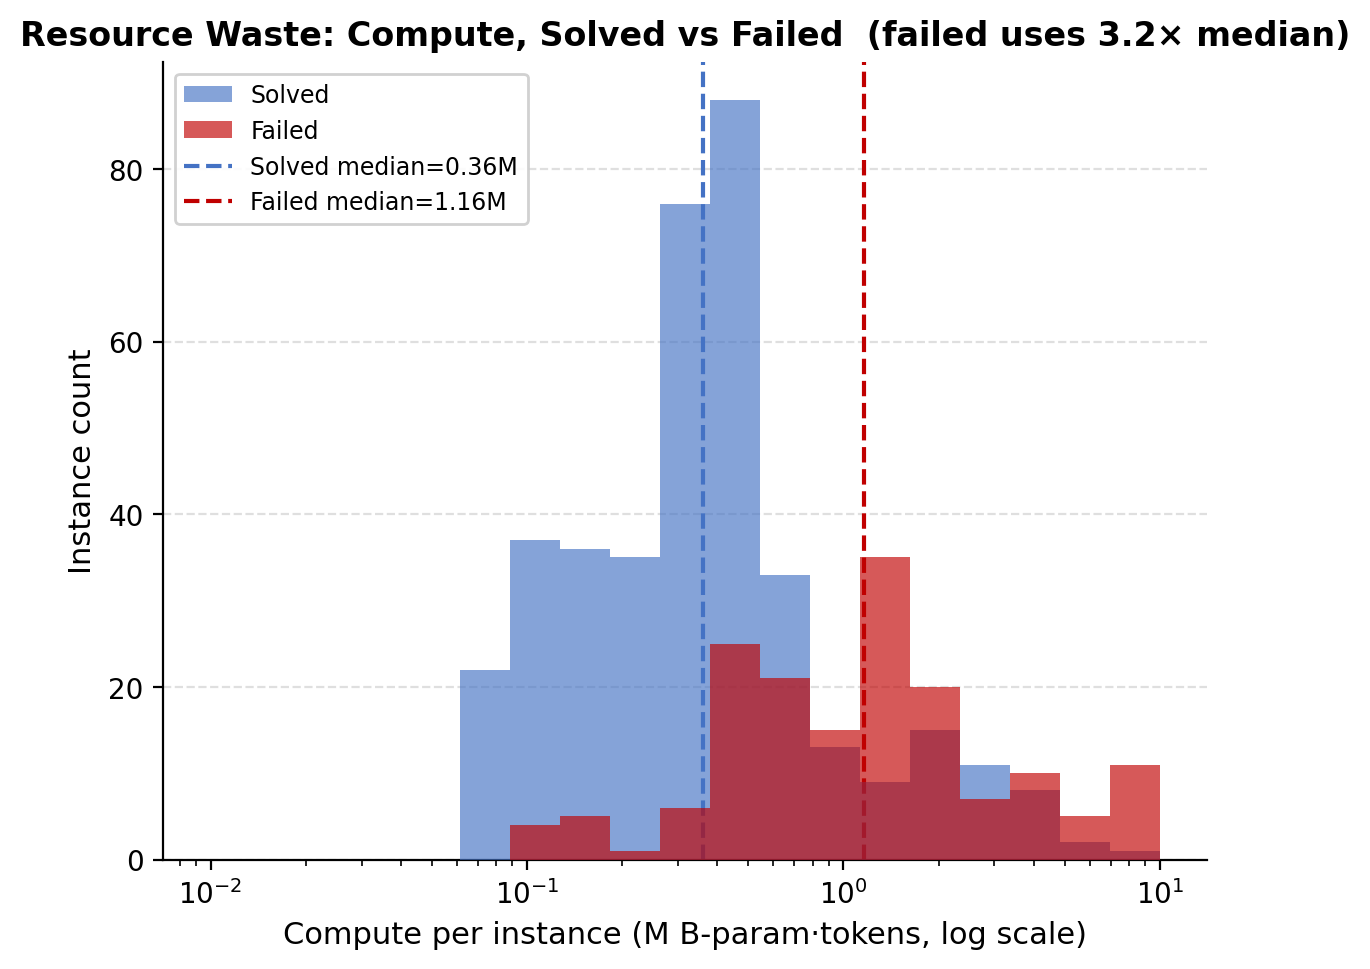
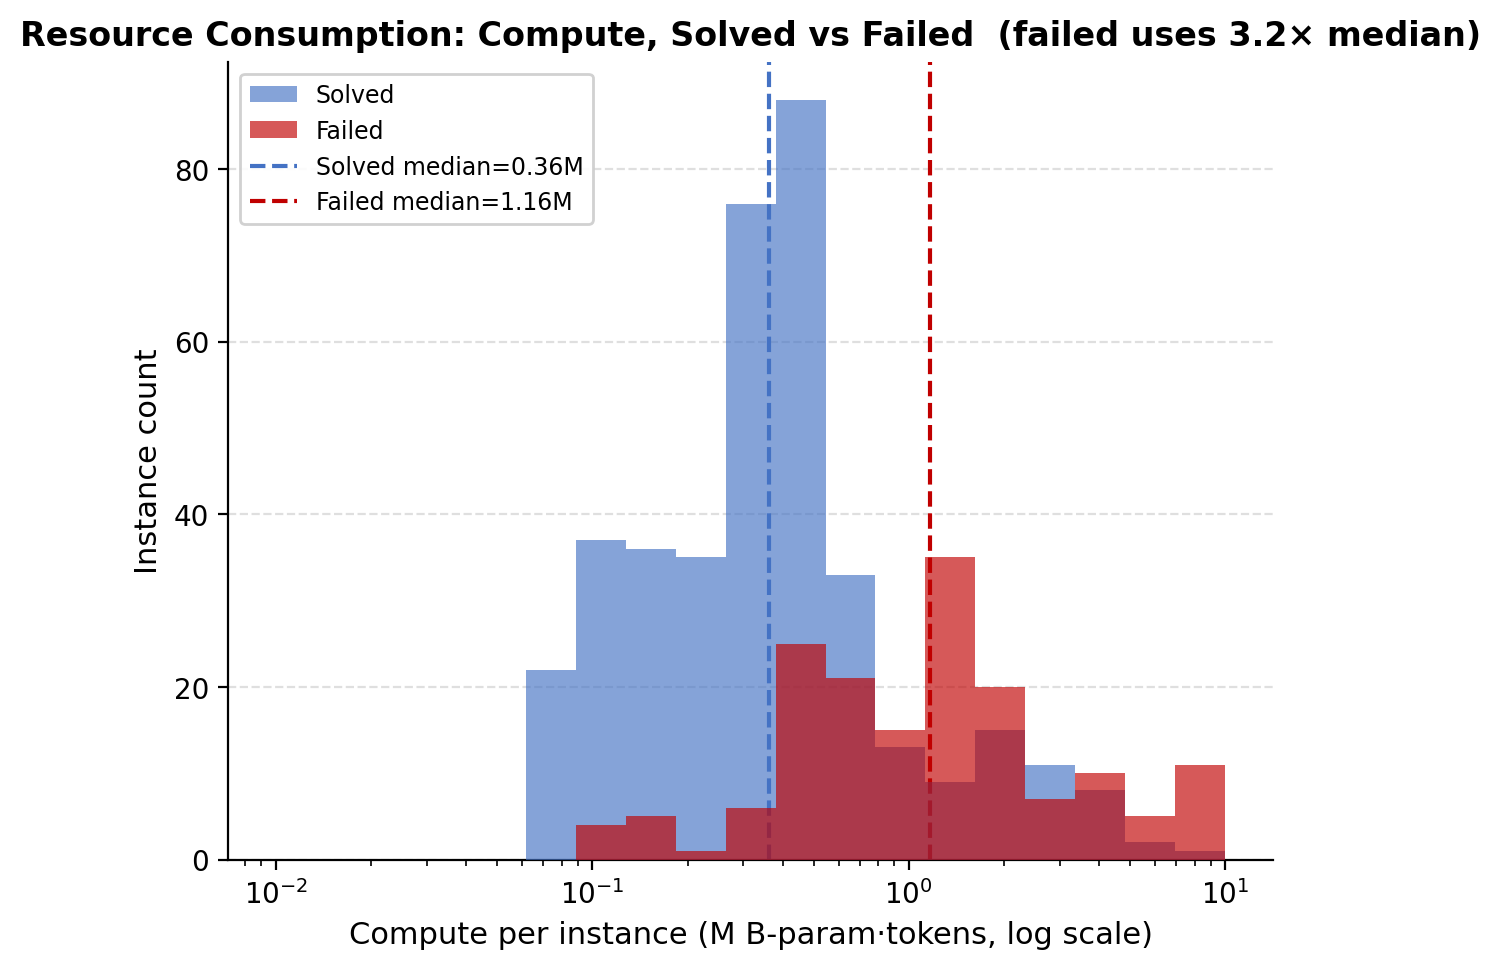
Updates to plotting function for collection of fig_f resource consumption

diff --git a/SWE-agent/scripts/combined/plot_results.py b/SWE-agent/scripts/combined/plot_results.py
@@ -640,7 +640,8 @@ def fig_instance_overlap(data_dir: pathlib.Path, out_dir: pathlib.Path, fmt: str
         return (only_a, only_b, ab_only, only_c, ac_only, bc_only, abc)
 
     try:
-        from matplotlib_venn import venn3_unweighted
+        from matplotlib_venn import venn3
+        from matplotlib_venn.layout.venn3 import DefaultLayoutAlgorithm
         has_venn = True
     except ImportError:
         has_venn = False
@@ -653,17 +654,22 @@ def fig_instance_overlap(data_dir: pathlib.Path, out_dir: pathlib.Path, fmt: str
     failed_sub = _venn_subsets("A", "B", "C", pos="0")
     n_total    = len(rows_f)
 
+    # Equal-circle layout (replaces deprecated venn3_unweighted)
+    _equal_layout = DefaultLayoutAlgorithm(fixed_subset_sizes=(1, 1, 1, 1, 1, 1, 1))
+
     fig, (ax_s, ax_f) = plt.subplots(1, 2, figsize=(12, 5.5))
 
-    venn3_unweighted(subsets=solved_sub,
+    venn3(subsets=solved_sub,
           set_labels=("A\n9b MCTS", "B\nMulti-role\nlinear", "C\nMixed MCTS"),
-          set_colors=("#5b9bd5", "#9b9b9b", "#c00000"), alpha=0.55, ax=ax_s)
+          set_colors=("#5b9bd5", "#9b9b9b", "#c00000"), alpha=0.55, ax=ax_s,
+          layout_algorithm=_equal_layout)
     ax_s.set_title(f"Instances Solved (c2+c3, n={n_total})",
                    fontsize=10, fontweight="bold")
 
-    venn3_unweighted(subsets=failed_sub,
+    venn3(subsets=failed_sub,
           set_labels=("A\n9b MCTS", "B\nMulti-role\nlinear", "C\nMixed MCTS"),
-          set_colors=("#5b9bd5", "#9b9b9b", "#c00000"), alpha=0.55, ax=ax_f)
+          set_colors=("#5b9bd5", "#9b9b9b", "#c00000"), alpha=0.55, ax=ax_f,
+          layout_algorithm=_equal_layout)
     ax_f.set_title(f"Instances Failed (c2+c3, n={n_total})",
                    fontsize=10, fontweight="bold")
 
@@ -786,9 +792,9 @@ def fig_resource_waste(data_dir: pathlib.Path, out_dir: pathlib.Path, fmt: str) 
     fig1, ax1 = plt.subplots(figsize=(7, 5))
     _plot_steps_hist(ax1, solved_steps, failed_steps,
                      bins=step_bins,
-                     title="Resource Waste: Model Calls, Solved vs Failed\n(all variants, aggregated)")
+                     title="Resource Consumption: Model Calls, Solved vs Failed\n(all variants, aggregated)")
     fig1.tight_layout()
-    out1 = out_dir / f"fig_f1_resource_waste_steps.{fmt}"
+    out1 = out_dir / f"fig_f1_resource_consumption_steps.{fmt}"
     fig1.savefig(out1, dpi=200, bbox_inches="tight")
     plt.close(fig1)
     print(f"Saved: {out1}")
@@ -811,7 +817,7 @@ def fig_resource_waste(data_dir: pathlib.Path, out_dir: pathlib.Path, fmt: str) 
         ax2.set_xscale("log")
         ax2.set_xlabel("Compute per instance (M B-param·tokens, log scale)", fontsize=11)
         ax2.set_ylabel("Instance count", fontsize=11)
-        ax2.set_title(f"Resource Waste: Compute, Solved vs Failed  (failed uses {ratio:.1f}× median)",
+        ax2.set_title(f"Resource Consumption: Compute, Solved vs Failed  (failed uses {ratio:.1f}× median)",
                       fontsize=12, fontweight="bold")
         ax2.legend(fontsize=8.5, framealpha=0.9)
         ax2.yaxis.grid(True, linestyle="--", alpha=0.4, zorder=0)
@@ -850,9 +856,9 @@ def fig_resource_waste_by_arch(data_dir: pathlib.Path, out_dir: pathlib.Path, fm
         lin_bins = range(1, lin_max + 2)
         _plot_steps_hist(ax, lin_solved, lin_failed,
                          bins=lin_bins,
-                         title="Resource Waste: Linear Agents\n(strict-gate variants, all case sets)")
+                         title="Resource Consumption: Linear Agents\n(strict-gate variants, all case sets)")
         fig.tight_layout()
-        out = out_dir / f"fig_f1linear_resource_waste_steps.{fmt}"
+        out = out_dir / f"fig_f1linear_resource_consumption_steps.{fmt}"
         fig.savefig(out, dpi=200, bbox_inches="tight")
         plt.close(fig)
         print(f"Saved: {out}")
@@ -864,9 +870,9 @@ def fig_resource_waste_by_arch(data_dir: pathlib.Path, out_dir: pathlib.Path, fm
         mcts_bins = range(1, mcts_max + 2)
         _plot_steps_hist(ax, mcts_solved, mcts_failed,
                          bins=mcts_bins,
-                         title="Resource Waste: MCTS Agents\n(strict-gate variants, all case sets)")
+                         title="Resource Consumption: MCTS Agents\n(strict-gate variants, all case sets)")
         fig.tight_layout()
-        out = out_dir / f"fig_f1mcts_resource_waste_steps.{fmt}"
+        out = out_dir / f"fig_f1mcts_resource_consumption_steps.{fmt}"
         fig.savefig(out, dpi=200, bbox_inches="tight")
         plt.close(fig)
         print(f"Saved: {out}")

diff --git a/results_summary/mcts_vs_linear_resource_expense_explanation.md b/results_summary/mcts_vs_linear_resource_expense_explanation.md
@@ -1,0 +1,20 @@
+It's structural — the MCTS architecture creates a bimodal outcome by design, whereas linear agents have a continuous spectrum.
+
+  Why MCTS peaks sharply at 5:                                                                                                                                                                                          
+   
+  The MCTS search uses the value function to rank candidate patches at each node. When a problem is solvable by the model, the planner's plan + the value function guidance tends to steer the coder toward the correct 
+  patch very quickly — usually within the first 4–5 nodes. Once the reviewer accepts, the run stops immediately. So solvable problems cluster tightly because the search is guided: it's not wandering, it's exploiting
+  a narrow promising path.                                                                                                                                                                                              
+                                                            
+  The result is essentially two modes:                                                                                                                                                                                  
+  - The model "gets it" → solves in 4–6 nodes (round 1 succeeds fast)
+  - The model doesn't "get it" → exhausts 19 nodes in round 1, reviewer rejects, exhausts 19 more in round 2 → 38 total                                                                                                 
+                                                                                                                       
+  There's almost no middle ground because the architecture doesn't allow partial progress to carry over between rounds. Each round resets to HEAD.                                                                      
+                                                                                                                                                                                                                        
+  Why linear is wider (4–15):                                                                                                                                                                                           
+                                                                                                                                                                                                                        
+  Linear agents have no value function guiding which direction to pursue, so they explore more freely. Easy problems get solved in a few turns, harder problems require more back-and-forth with the environment        
+  (running tests, reading errors, iterating). This produces a smooth spread across the budget rather than a sharp peak.
+                                                                                                                                                                                                                        
+  In short: MCTS's tight peak is evidence the guided search is working — when it works, it works fast. The sharpness isn't luck, it's the value function doing its job.   
